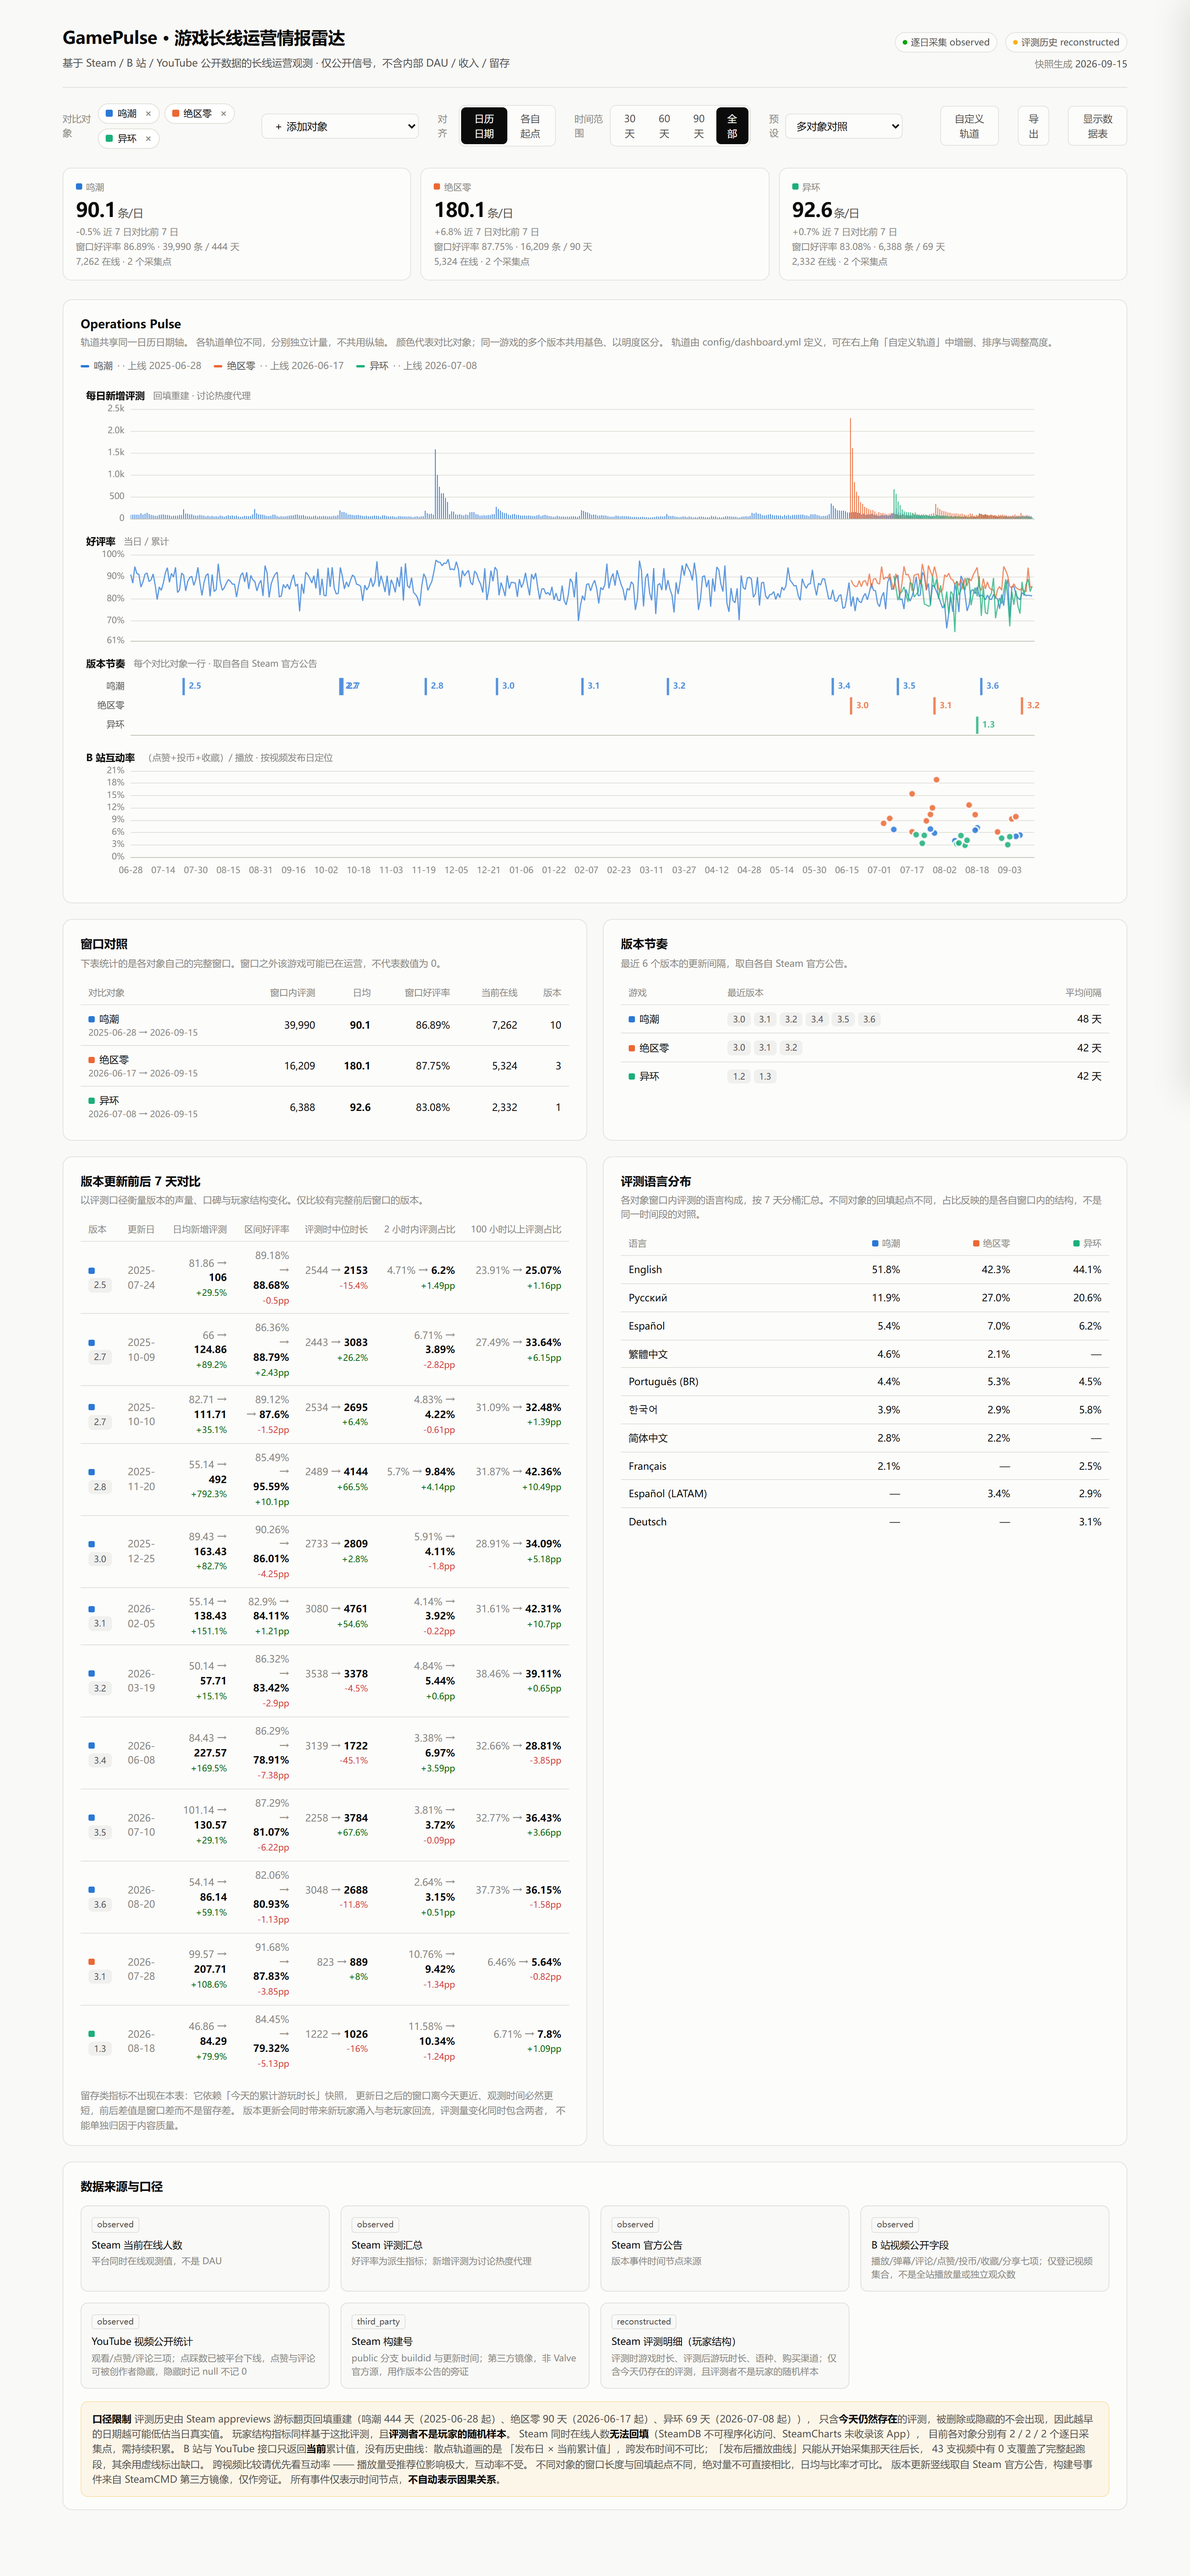
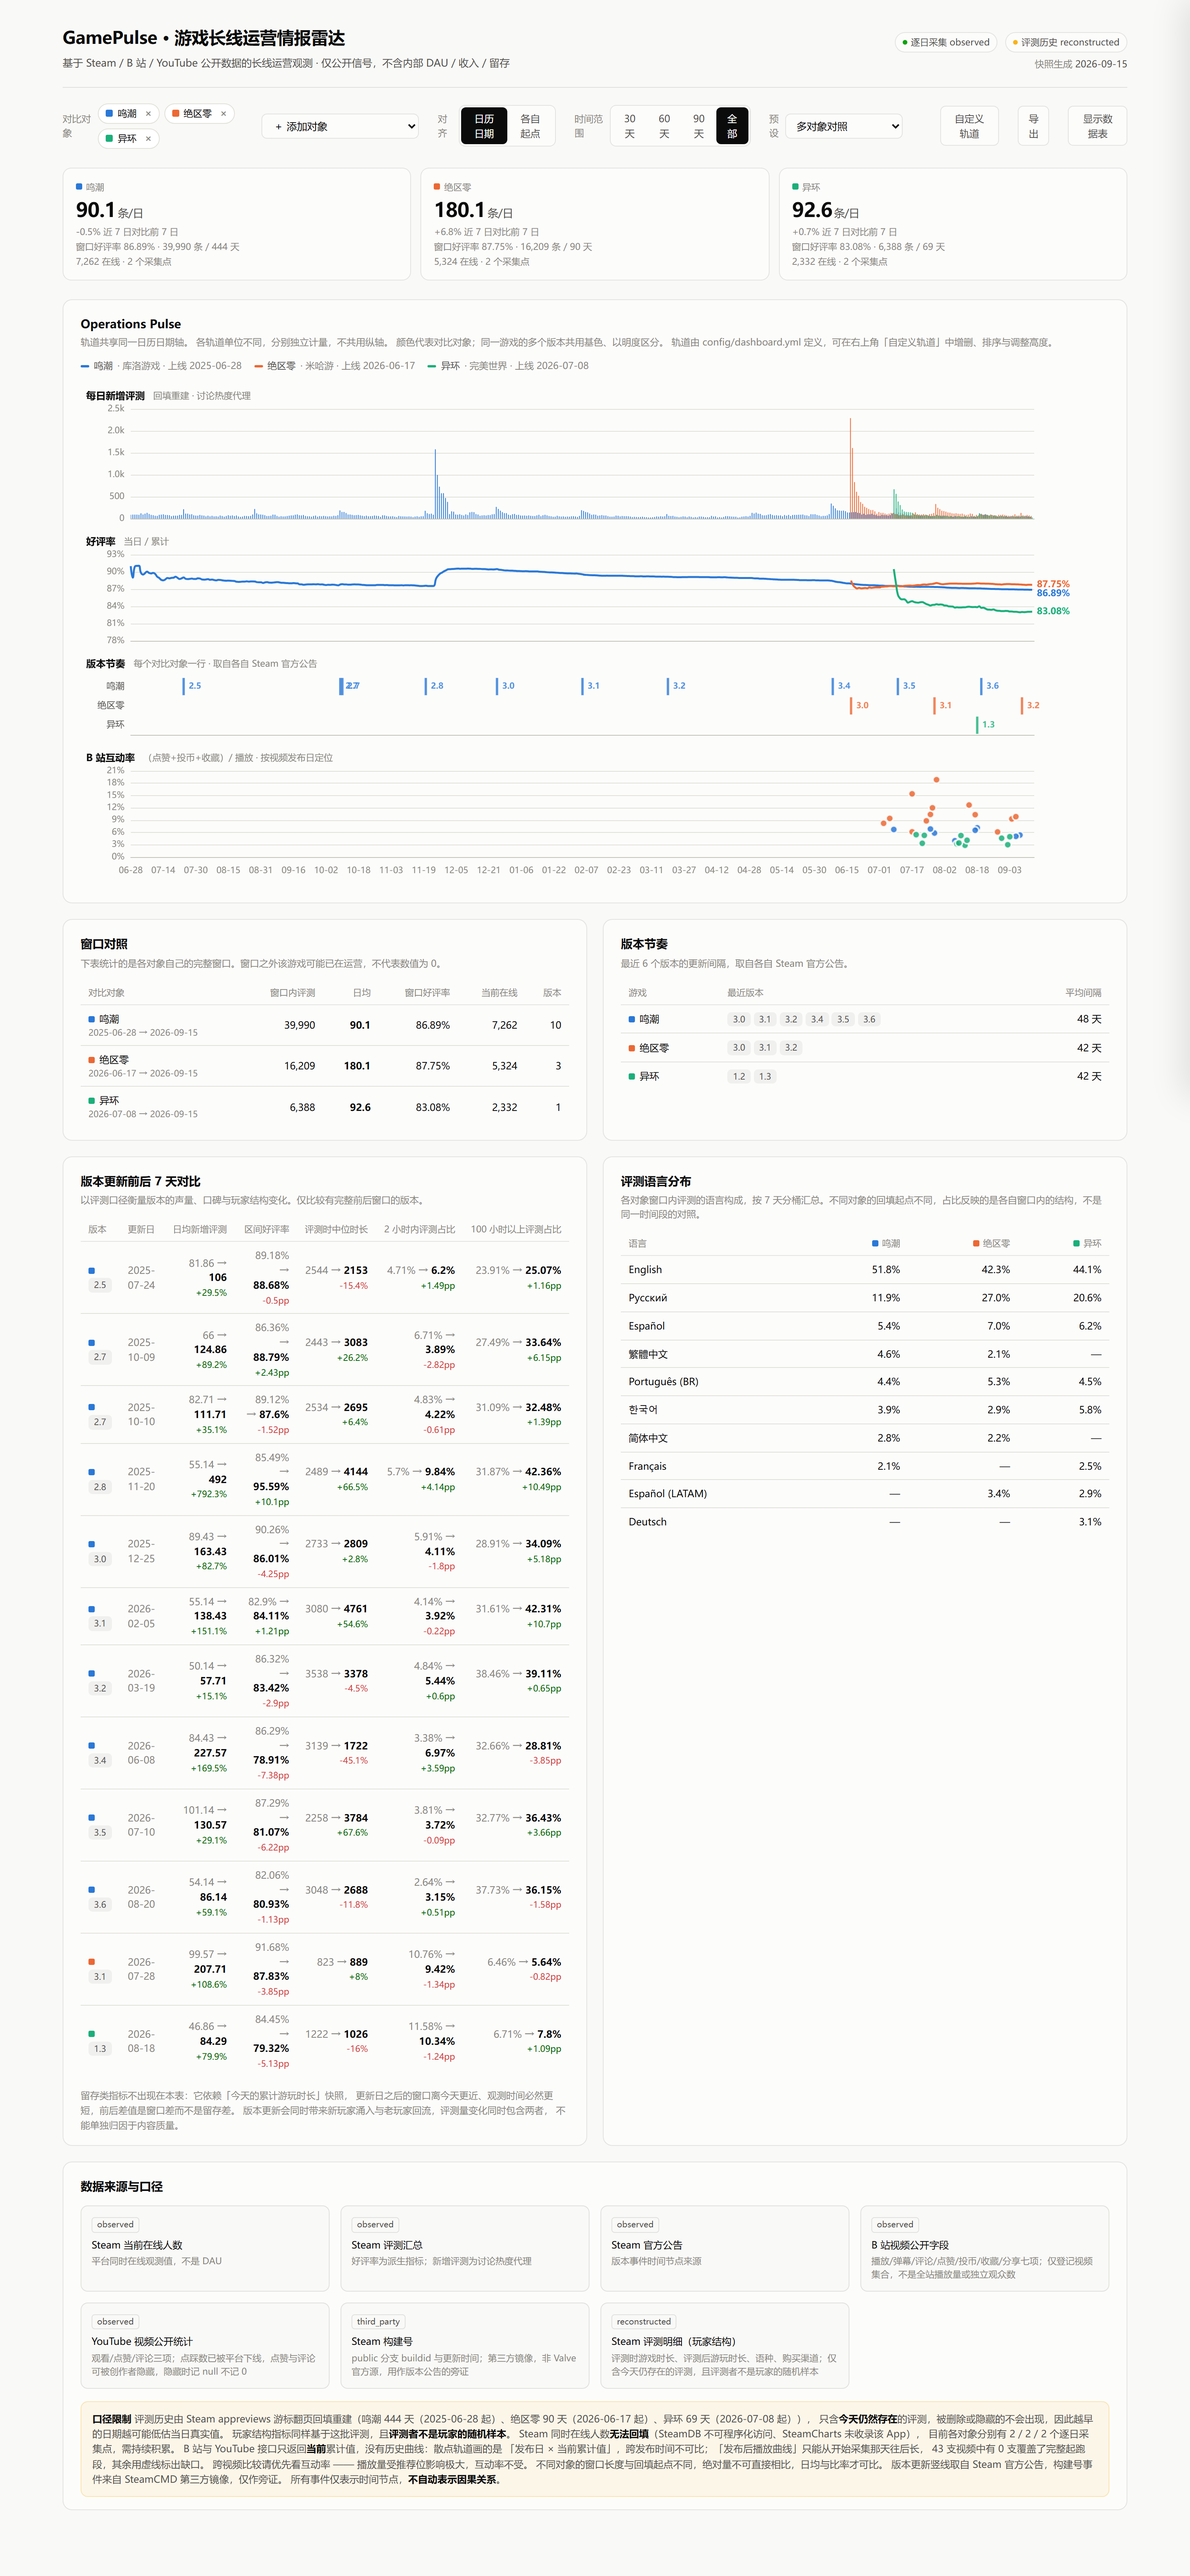
fix: 多对象好评率改画累计线，补上 developer 字段
多对象对照时每个对象只画一条好评率线，之前默认取了子系列里的第一条
（当日好评率）—— 三四条锯齿线叠在一起只剩噪声。改用 compare_field 指定
累计线，能看出口碑走向的差异。

developer 没进 snapshot.game，导致 index.json 里是 null，图例渲染成
「鸣潮 · · 上线 2025-06-28」。顺带把 sublabel 改成过滤空值后再拼接。

Changed region(s): [[0.0938, 0.2182, 0.9062, 0.2494]]

diff --git a/dashboard/engine.js b/dashboard/engine.js
@@ -124,7 +124,8 @@ function makeGameSubject(entry) {
     kind: 'game',
     gameId: entry.game_id,
     label: entry.short_name || entry.display_name,
-    sublabel: `${entry.developer || ''} · 上线 ${entry.review_start || '—'}`,
+    sublabel: [entry.developer, `上线 ${entry.review_start || '—'}`]
+      .filter(Boolean).join(' · '),
     color: entry.color,
     day0: entry.review_start,
     window: { start: entry.review_start, end: entry.snapshot_date },

diff --git a/pipeline/build_snapshot.py b/pipeline/build_snapshot.py
@@ -236,6 +236,8 @@ def build(game_id: str) -> dict:
         "game": {
             "game_id": game_id,
             "display_name": game.get("display_name"),
+            "short_name": game.get("short_name"),
+            "developer": game.get("developer"),
             "steam_app_id": game.get("steam_app_id"),
             "steam_status": game.get("steam_status"),
             "region": game.get("region"),
